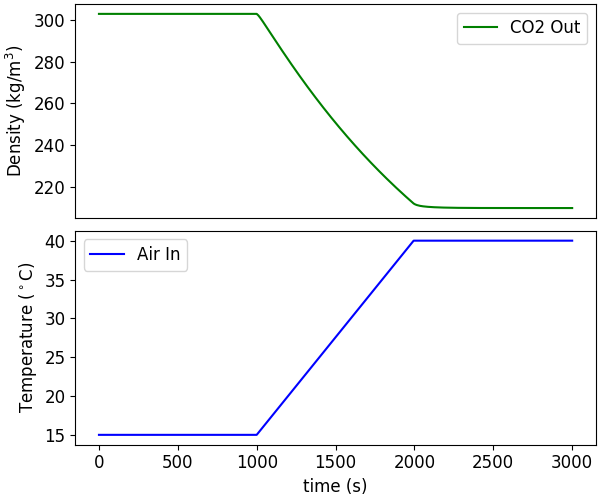
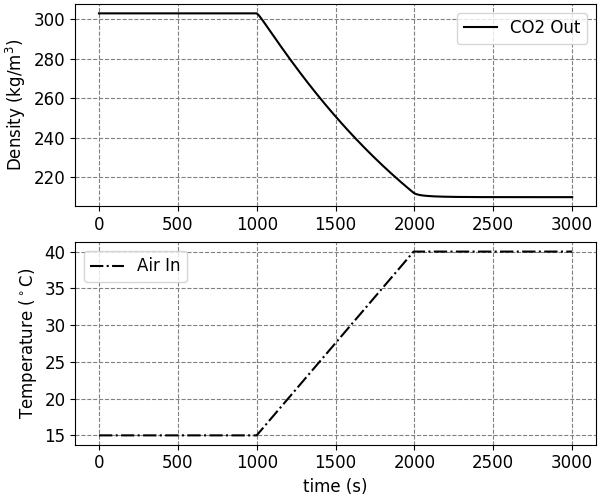
added hconv to steady-state results, updated figure formatting for the paper

diff --git a/viz/plot_steady_state.py b/viz/plot_steady_state.py
@@ -1,10 +1,9 @@
 import matplotlib.pyplot as plt
 import matplotlib
+from matplotlib import rc
 import pandas as pd
 import numpy as np
 
-
-matplotlib.rcParams.update({'font.size': 12})
 data_file = './data/steady_state_vs_temperature_p8_e7.csv'
 
 df = pd.read_csv(data_file)
@@ -12,50 +11,77 @@ df = pd.read_csv(data_file)
 # sCO2 exit temperature, density vs air temperature
 air_temp = df['temperature_shell_in_55'] - 273.15
 sco2_temp = df['temperature_tube_out_55'] - 273.15
+sco2_press = df['pressure_tube_out_55'] * 1e-5
 sco2_rho = df['density_tube_out_55']
+sco2_hconv = df['hconv_tube_55']
 
-fig, ax = plt.subplots(1, 2, figsize=(12, 5))
+matplotlib.rcParams.update({'font.size': 12})
+fig = plt.figure(constrained_layout=True, figsize=(6, 5))
+gs = fig.add_gridspec(2, 1)
+ax0 = fig.add_subplot(gs[0, 0])
+ax1 = fig.add_subplot(gs[1, 0])
 
-ax[0].plot(air_temp, sco2_temp, 'b', label='CO2 Out')
-ax[1].plot(air_temp, sco2_rho, 'g', label='CO2 Out')
+for ax in [ax0, ax1]:
+    ax.set_axisbelow(True)
+    ax.xaxis.grid(color='gray', linestyle='dashed')
+    ax.yaxis.grid(color='gray', linestyle='dashed')
 
+ax0.plot(air_temp, sco2_temp, 'k')
+ax1.plot(air_temp, sco2_rho, 'k')
 
-ax[0].set_ylabel('Temperature ($^\circ$C)')
-ax[1].set_ylabel('Density (kg/m$^3$)')
-
-ax[0].set_xlabel('Air Temperature ($^\circ$C)')
-ax[1].set_xlabel('Air Temperature ($^\circ$C)')
-
-ax[0].legend()
-ax[1].legend()
+ax0.set_ylabel('Temperature ($^\circ$C)')
+ax1.set_ylabel('Density (kg/m$^3$)')
+ax1.set_xlabel('Air Temperature ($^\circ$C)')
 
 fig.savefig('./images/steady_state_vs_temperature.png')
 
 
 # ... vs tube length
-fig, ax = plt.subplots(1, 2, figsize=(12, 5))
+rc('font', **{'family': 'sans-serif', 'sans-serif': ['DejaVu Sans'], 'size': 10})
+rc('mathtext', **{'default': 'regular'})
+fig, ax = plt.subplots(2, 2, figsize=(8, 6))
 
-temp = np.empty((55, 1))
-dens = np.empty((55, 1))
+for i in range(2):
+    for j in range(2):
+        ax[i][j].set_axisbelow(True)
+        ax[i][j].xaxis.grid(color='gray', linestyle='dashed')
+        ax[i][j].yaxis.grid(color='gray', linestyle='dashed')
+
+temp = np.empty((56, 1))
+press = np.empty((56, 1))
+dens = np.empty((56, 1))
+hconv = np.empty((56, 1))
 tube_length = 195
-x = np.linspace(0, tube_length, 55)
+x = np.linspace(0, tube_length, 56)
 
-air_temps = [273.15, 288.15, 303.15]
-for k, a in enumerate(air_temps):
+d = {'air_temp': [273.15, 288.15, 303.15],
+     'ls': ['solid', 'dashed', 'dotted'],
+     'color': ['k', '0.25', '0.10']}
+
+for k, a in enumerate(d['air_temp']):
     idx = df.loc[abs(df['temperature_shell_in_55'] - a) < 0.01].index[0]
-    for j in range(55):
-        temp[j] = df.iloc[idx][f'temperature_tube_in_{j}'] - 273.15
-        dens[j] = df.iloc[idx][f'density_tube_in_{j}']
+    for j in range(56):
+        temp[j] = df.iloc[idx][f'temperature_tube_out_{j}'] - 273.15
+        press[j] = df.iloc[idx][f'pressure_tube_out_{j}'] * 1e-5
+        dens[j] = df.iloc[idx][f'density_tube_out_{j}']
+        hconv[j] = df.iloc[idx][f'hconv_tube_{j}']
 
-    ax[0].plot(x, temp, label=f'Air Temperature: {int(a - 273.15)}$^\circ$C')
-    ax[1].plot(x, dens, label=f'Air Temperature: {int(a - 273.15)}$^\circ$C')
+    c = d['color'][k]
+    ls = d['ls'][k]
+    ax[0][0].plot(x, temp, c, ls=ls, label=f'$T_{{air}}$: {int(a - 273.15)}$^\circ$C')
+    ax[0][1].plot(x, press, c, ls=ls)
+    ax[1][0].plot(x, dens, c, ls=ls)
+    ax[1][1].plot(x, hconv, c, ls=ls)
 
-ax[0].legend()
-ax[0].set_xlabel('Tube Position (m)')
-ax[1].set_xlabel('Tube Position (m)')
-ax[0].set_ylabel('Temperature ($^\circ$C)')
-ax[1].set_ylabel('Density (kg/m$^3$)')
+ax[0][0].legend(loc='upper right')
+ax[1][0].set_xlabel('Tube Position (m)')
+ax[1][1].set_xlabel('Tube Position (m)')
 
-#ax[1].legend()
+ax[0][0].set_ylabel('Temperature ($^\circ$C)')
+ax[0][1].set_ylabel('Pressure (Bar)')
+ax[1][0].set_ylabel('Density (W/m$^2$K)')
+ax[1][1].set_ylabel('hconv (W/m$^2$K)')
 
+plt.subplots_adjust(wspace=0.4, top=0.95, right=0.95, left=0.1)
 fig.savefig('./images/temperature_profiles.png')
+plt.show()

diff --git a/viz/plot_response.py b/viz/plot_response.py
@@ -9,7 +9,7 @@ def plot_response(data_file, n_passes=8, n_elements=7,
                   show=False, image_file=None,
                   loc0='upper left', loc1='upper left',
                   response_var='temperature_tube_out', response_label='CO2 Out',
-                  response_axis_label='Temperature ($^\circ$C)', response_color='r'):
+                  response_axis_label='Temperature ($^\circ$C)'):
 
     # Read in the results data
     df = pd.read_csv(data_file)
@@ -26,10 +26,15 @@ def plot_response(data_file, n_passes=8, n_elements=7,
     ax0 = fig.add_subplot(gs[0, 0])
     ax1 = fig.add_subplot(gs[1, 0])
 
-    ax0.plot(time, response, response_color, label=response_label)
-    ax1.plot(time, air_temp - 273.15, 'b', label='Air In')
+    for ax in [ax0, ax1]:
+        ax.set_axisbelow(True)
+        ax.xaxis.grid(color='gray', linestyle='dashed')
+        ax.yaxis.grid(color='gray', linestyle='dashed')
 
-    ax0.get_xaxis().set_visible(False)
+    ax0.plot(time, response, 'k', ls='solid', label=response_label)
+    ax1.plot(time, air_temp - 273.15, 'k', ls='dashdot', label='Air In')
+
+    #ax0.get_xaxis().set_visible(False)
     ax0.set_ylabel(response_axis_label)
 
     ax1.set_xlabel('time (s)')
@@ -60,19 +65,16 @@ plot_response('./data/time_series_step_changes_p8_e7.csv',
               loc0='upper right',
               response_var='density_tube_out',
               response_axis_label='Density (kg/m$^3$)',
-              response_color='g',
               image_file='./images/density_response_step_changes.png')
 
 plot_response('./data/time_series_ramp_down_p8_e7.csv',
               loc0='upper left', loc1='upper right',
               response_var='density_tube_out',
               response_axis_label='Density (kg/m$^3$)',
-              response_color='g',
               image_file='./images/density_response_ramp_down.png')
 
 plot_response('./data/time_series_ramp_up_p8_e7.csv',
               loc0='upper right', loc1='upper left',
               response_var='density_tube_out',
               response_axis_label='Density (kg/m$^3$)',
-              response_color='g',
               image_file='./images/density_response_ramp_up.png')

diff --git a/viz/plot_2d_elements.py b/viz/plot_2d_elements.py
@@ -1,12 +1,12 @@
 import matplotlib.pyplot as plt
 from matplotlib.patches import Rectangle, Arc
-from matplotlib import cm
+from matplotlib import cm, rc
 from matplotlib.colors import rgb2hex, Normalize
-import matplotlib
 import pandas as pd
 import numpy as np
 
-matplotlib.rcParams.update({'font.size': 14})
+rc('font', **{'family': 'sans-serif', 'sans-serif': ['DejaVu Sans'], 'size': 10})
+rc('mathtext', **{'default': 'regular'})
 
 
 def plot_2d_steady_state(data_file, n_passes=8, n_elements=7, show=False, image_file=None):
@@ -135,6 +135,8 @@ def plot_2d_steady_state(data_file, n_passes=8, n_elements=7, show=False, image_
     cb = fig.colorbar(cm.ScalarMappable(norm=anorm, cmap=cmap), ax=ax, shrink=0.8)
     cb.set_label('Temperature (C)', rotation=270, labelpad=20)
 
+    #plt.subplots_adjust(top=0.95, right=0.95, left=0.12, bottom=0.05)
+    #fig.set_size_inches(8, 6)
     if image_file is not None:
         fig.savefig(image_file, dpi=500)
     if show:
@@ -142,4 +144,4 @@ def plot_2d_steady_state(data_file, n_passes=8, n_elements=7, show=False, image_
 
 
 plot_2d_steady_state('./data/time_series_step_changes_p8_e7.csv',
-                     image_file='./images/temperature_profile_2d.png')
+                     image_file='./images/temperature_profile_2d.png', show=True)

diff --git a/util/writer.py b/util/writer.py
@@ -20,6 +20,8 @@ def write_csv(file_name, elements):
         rho_tube_out = get_arr(e.tube.properties_out[:].dens_mass)
         t_shell_in = get_arr(e.shell.properties_in[:].temperature)
         t_shell_out = get_arr(e.shell.properties_out[:].temperature)
+        hconv_shell = get_arr(e.hconv_shell[:])
+        hconv_tube = get_arr(e.hconv_tube[:])
         heat_duty = get_arr(e.heat_duty[:]) * 1e-6
 
         data[f'temperature_tube_in_{idx}'] = t_tube_in
@@ -30,6 +32,8 @@ def write_csv(file_name, elements):
         data[f'density_tube_out_{idx}'] = rho_tube_out
         data[f'temperature_shell_in_{idx}'] = t_shell_in
         data[f'temperature_shell_out_{idx}'] = t_shell_out
+        data[f'hconv_shell_{idx}'] = hconv_shell
+        data[f'hconv_tube_{idx}'] = hconv_tube
         data[f'heat_duty_{idx}'] = heat_duty
 
     df = pd.DataFrame(data=data)
